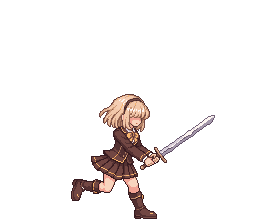
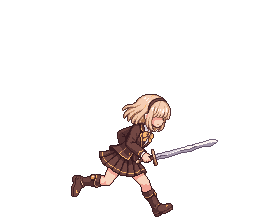
Apply approved forward-leaning combat movement pose

Changed region(s): [[0.2812, 0.4062, 0.8438, 1.0]]

diff --git a/Tools/import_final_player_art.py b/Tools/import_final_player_art.py
@@ -16,7 +16,7 @@ def main():
         ('idle', 'Lobby_Refinement_20261024/idle', 'animation.json', 0),
         ('walk', 'Lobby_Refinement_20261024/walk', 'animation.json', 0),
         ('run', 'Lobby_Refinement_20261024/run', 'animation.json', 0),
-        ('combat-move', 'Combat_Move_PixelLab_20261024', 'animation.json', 0),
+        ('combat-move', 'Combat_Move_Reference2_Preview_20261024', 'animation.json', 0),
         ('slash', 'Slash_01_PixelLab', 'slash.json', 4),
         ('pierce', 'Pierce_01_PixelLab/TrailFix', 'pierce.json', 5),
         ('beat', 'Strike_SkillFamilies_20261024/01_BladeBeat', 'animation.json', 7),

diff --git a/Docs/Art/FinalPlayer/README_KO.md b/Docs/Art/FinalPlayer/README_KO.md
@@ -16,7 +16,7 @@
 - 로비 대기는 전투와 같은 새 Idle을 공유합니다. 목·어깨·팔·손·검이 연결된 전신 생성물 중 동작이 작은 구간을 0,1,2,3,2,1 순서로 왕복 재생합니다. 이는 완성된 전신 프레임의 시간 순서 조정이며 신체 부위를 잘라 붙인 것이 아닙니다. 양발이 고정되고, 선택된 모든 프레임에서 치마 밑단과 허벅지를 시각 검토했습니다. `idle-calm-generation.json`과 `idle-calm-verification.json`은 폐기된 사각 영역 보정의 역사 기록으로 현재 결과의 검증 자료가 아닙니다.
 - 최신 Idle·걷기·뛰기 설정은 `Lobby_Refinement_20261024`에 보존합니다. 걷기는 어깨를 내리고 빈손을 몸 옆으로 느슨하게 늘어뜨린 새 자세에서 전신 보행 주기를 생성했습니다. 이전보다 천천히, 짧은 보폭으로 내딛으며 검은 한 손으로 내려 듭니다. 중복 종료 프레임은 제외했습니다. 기존 `Walk_Relaxed_PixelLab_20261024`와 `walk-relaxed-*.json`은 이전 시안 기록입니다.
 - 새 Idle은 PPU36·바닥y218·피벗x114, 걷기는 PPU36.864·바닥y215·피벗x114입니다. 뛰기는 원본 PNG와 560ms 주기를 보존하며 전체 클립의 PPU만 35.136에서 37.44로 바꿔 표시 크기를 약 6.15% 줄였습니다. 프레임별로 배율을 바꾸지 않습니다. `lobby-refinement-generation.json`과 `lobby-refinement-verification.json`에 새 작업과 원본 대조 기록, `lobby-refinement-scale.png`에 동일한 월드 표시 배율 비교를 보존합니다. `GIF/lobby-walk-run.gif`도 실제 PPU 비율과 주기를 반영하며, 실제 이동 속도나 카메라를 재현하지는 않습니다.
-- 전투 접근·거리 좁히기는 `combat-move`의 새 정지 이미지 한 장을 유지합니다. 첨부된 예전 캐릭터에서는 앞으로 기울인 상체, 앞발 지지, 뒤로 접힌 다리, 양손으로 앞에 든 검의 자세만 글로 참고했습니다. PixelLab 입력 이미지는 새 플레이어 Idle뿐이며 예전 도트 픽셀·그림체·색상은 사용하지 않았습니다. 생성 후 승인된 Idle 팔레트로만 보정하고 투명도·픽셀 배치를 보존했습니다. PPU37.44, 바닥y218, 피벗(114,5)이며 원본은 `Combat_Move_PixelLab_20261024`, 이력은 `combat-move-generation.json`, 대조 결과는 `combat-move-verification.json`입니다. 로비 걷기·뛰기·Idle과 기존 나머지 123장 PNG는 바꾸지 않았습니다.
+- 전투 접근·거리 좁히기는 `combat-move`의 정지 이미지 한 장을 유지합니다. 사용자가 비교 후 승인한 두 번째 시안으로 교체했습니다. [LuizMelo의 Fantasy Warrior](https://luizmelo.itch.io/fantasy-warrior)의 달리기 실루엣을 자세 참고로 삼아, 상체·머리를 더 앞으로 숙이고 검을 한 손으로 낮게 전방에 들었습니다. PixelLab 입력 외형은 새 플레이어 Idle이며 참고 캐릭터의 망토·복장·색상·픽셀은 사용하지 않았습니다. 승인된 Idle 팔레트로 보정한 시안 PNG를 추가 변형 없이 가져옵니다. PPU37.44, 바닥y216, 피벗(123,7)이며 원본은 `Combat_Move_Reference2_Preview_20261024`입니다. `generation.json`의 미적용 표시는 시안 제작 당시 기록이고 현재 적용 승인은 별도 application 기록에 남겼습니다. `combat-move-generation.json`과 `combat-move-verification.json`에 최신 적용 내역을 보존합니다. 로비 걷기·뛰기·Idle과 기존 나머지 123장 PNG는 바꾸지 않았습니다.
 - 붕괴 전용 이동 자세는 사용자 요청으로 후속 작업입니다. 이번 전투 이동은 일반 자세 한 장이며 저항도·피격·가드·공격의 우선순위나 전투 이동 규칙은 바꾸지 않았습니다. 앞선 정지 이동 시안과 관련 자료는 제작 원본 폴더의 `Movement_NewDesign_20261024/DeferredStaticEvidence`에 별도로 보관하며 현재 게임 리소스에 포함하지 않습니다.
 - 상대 캐릭터, 다이얼로그 스탠딩은 기존 리소스를 유지합니다. 공유 중인 옛 이동·가드·피격 파일은 상대/이전 경로 때문에 보존하되, 새 플레이어 경로에서는 참조하지 않습니다.
 - 피격·붕괴 원본과 작업 이력은 `Reactions_PixelLab_20261024`에 있습니다. 이 폴더에는 미사용 시안도 남아 있으며, 실제 최종본은 `hurt.png`와 `break.png`입니다. 재현 정보는 `reaction-final-generation.json`, 색상·투명도 검증은 `reaction-verification.json`, 발 기준점은 `reaction-import.json`을 참조합니다. 두 이미지 모두 PPU 36이며 각 발 중심과 바닥 위치에 별도 피벗을 지정합니다.
@@ -47,6 +47,7 @@
 - 2026-10-24 로비 걷기·뛰기 연결 후 PlayMode 73/73 통과. 보행·달리기 프레임 진행과 루프, Shift 위상 유지, 좌우 반전, Idle·메뉴 전환 및 기존 이동 속도·로비 상호작용을 검사했습니다. `unity-lobby-walk.png`, `unity-lobby-run.png`, `unity-lobby-idle.png`는 테스트에서 실행한 로비 카메라 렌더입니다. 122장 모두 보존된 제작 원본과 바이트가 일치합니다. 미술적 완성도를 자동으로 보장하는 검사는 아닙니다.
 - 2026-10-24 전신 Idle 재제작·긴장 완화 걷기·뛰기 표시 배율 수정 후 PlayMode 73/73을 새로 실행해 통과했습니다. 최신 활성 PNG는 123장이며 원본과 바이트가 일치합니다. Idle의 팔·목·검 연결과 치마 밑단은 선택된 전신 프레임 전체 및 로비 렌더로 검토했습니다. 모션의 자연스러움은 주관적인 검토 항목이며 테스트 통과 자체가 미술적 결함 부재를 증명하지는 않습니다.
 - 2026-10-24 전투 이동 정지 자세 추가 후 PlayMode 73/73을 새로 실행해 통과했습니다. 접근·거리 좁히기 동안 `final-combat-move-frame-00`이 유지되고, 히트스톱에서 고정되며, 이동 종료 후 Idle로 복귀하고 가드는 우선 적용되는지 검사했습니다. 상대 이동 자세는 기존 리소스를 유지합니다. `unity-combat-move.png`는 테스트 중 실제 전투 카메라 렌더입니다. 활성 원본은 총 124장이고 이전 123장 PNG는 변경되지 않았습니다.
+- 2026-10-24 승인한 두 번째 전투 이동 시안 적용 후에도 PlayMode 73/73을 새로 실행해 통과했습니다. 승인 PNG와 활성 리소스의 바이트가 일치하며, 새 발 위치에 맞춰 피벗만 조정했습니다. `unity-combat-move.png`는 이 교체 후의 새 전투 카메라 렌더입니다.
 - 기존 세 가지 공격 변형의 테스트는 `UseFinalPlayerArt=false`로 이전 경로도 계속 검사하며, 새 리소스의 기본 활성 경로는 `FinalPlayerArtPlayModeTests` 및 전투 속도·리듬 테스트로 검사합니다.
 - 원본 경로가 있는 작업 PC에서는 `Tools/import_final_player_art.py`로 PNG를 다시 가져올 수 있습니다. 게임 실행에는 이 원본 폴더나 Python이 필요하지 않습니다.
 
